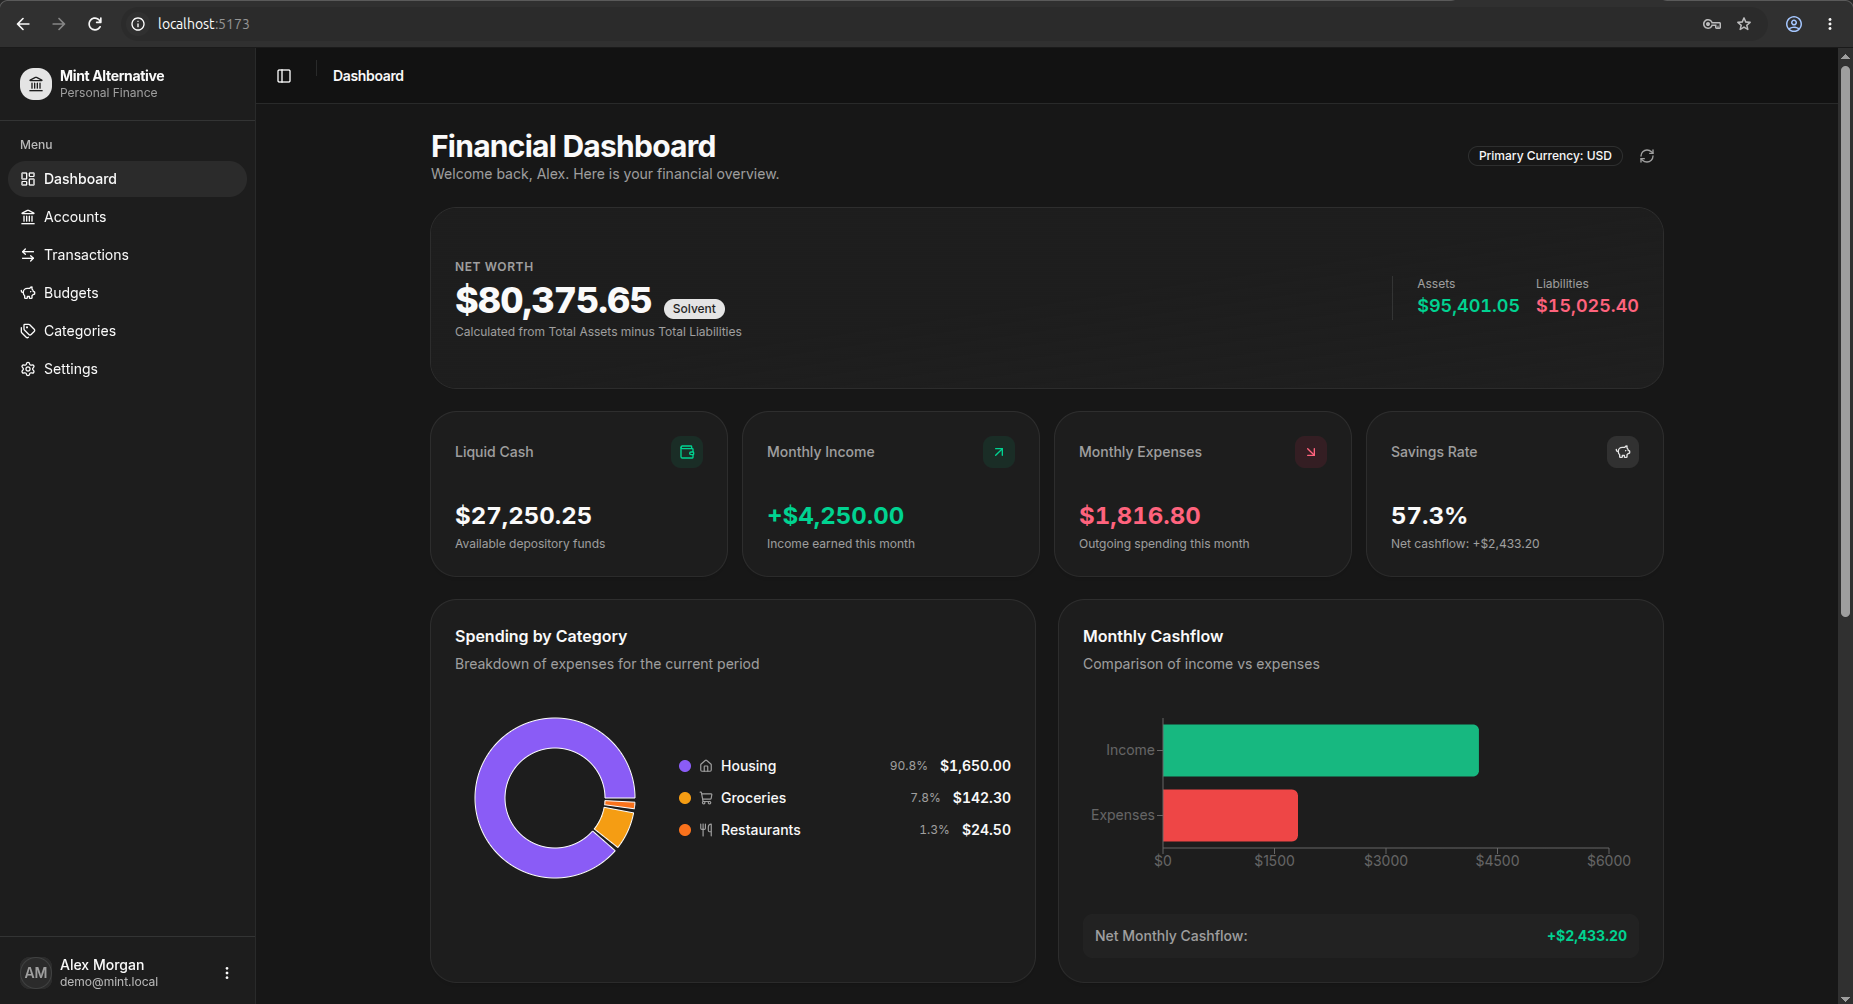
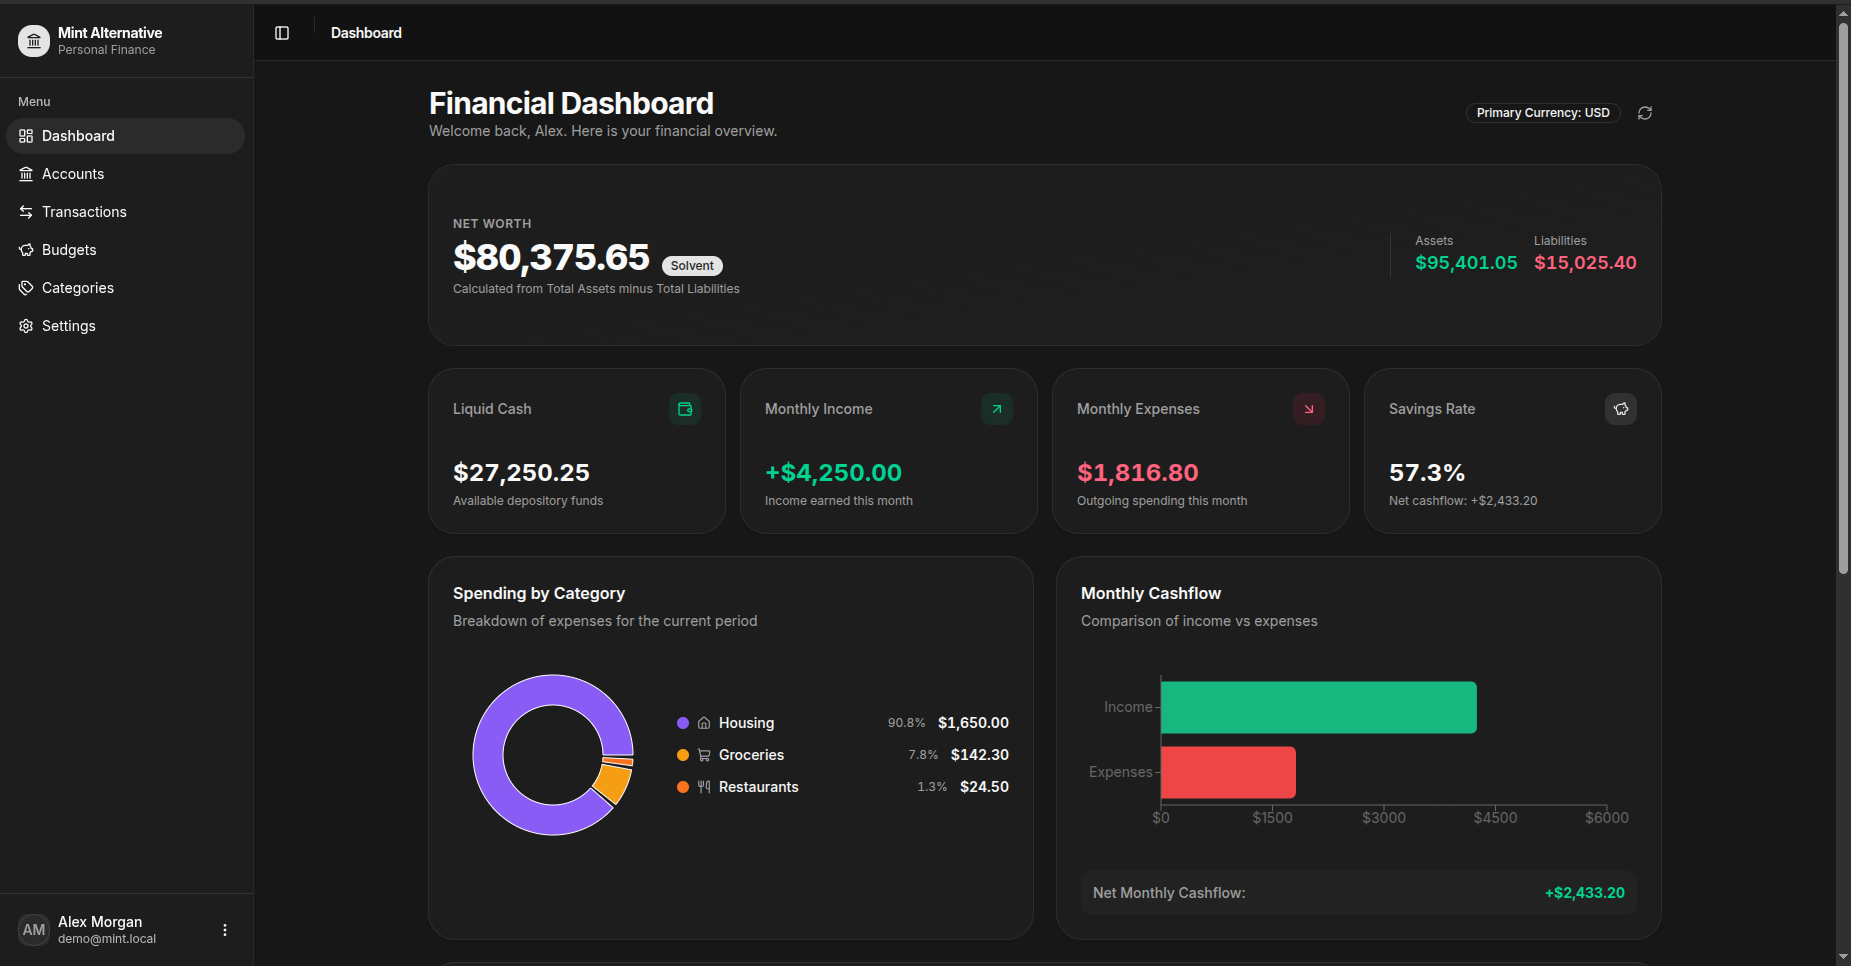
readme update w/ work done

diff --git a/README.md b/README.md
@@ -8,7 +8,7 @@ The application is designed to be responsive, mobile-friendly, and eventually in
 
 > **Project Status:** Early development. Features and integrations are being implemented incrementally.
 
-![Mint Alternative Live Financial Dashboard](docs/screenshots/dashboard.png)
+![Financial dashboard showing net worth, monthly cash flow, and spending by category](docs/screenshots/dashboard.png)
 
 ## Tech Stack
 
@@ -24,14 +24,13 @@ The application is designed to be responsive, mobile-friendly, and eventually in
 | React Router | Client-side routing |
 | vite-plugin-pwa | Planned PWA support |
 
-## Planned Features
+## Current and Planned Features
 
 ### Dashboard
 
-- Overview of connected financial accounts
 - Total assets, liabilities, and net worth
 - Monthly income and expenses
-- Spending trends and category breakdowns
+- Monthly spending breakdown by category
 - Recent transactions and financial activity
 
 ### Accounts
@@ -39,25 +38,34 @@ The application is designed to be responsive, mobile-friendly, and eventually in
 - Checking and savings accounts
 - Credit cards and loans
 - Investment accounts
-- Manual account management
-- Account balance history
+- Balances grouped by account type
+- Manual account creation, editing, archiving, and restoration
+- Account balance history (planned)
+
+![Financial accounts showing assets, liabilities, and balances grouped by account type](docs/screenshots/accounts.png)
 
 ### Transactions
 
 - Searchable and filterable transaction history
 - Transaction categorization
-- Custom categories and merchant rules
 - Manual transaction entry
-- Recurring transaction identification
+- Transaction editing and deletion
+- Merchant rules and recurring transaction identification (planned)
 
-### Budgets
+### Categories
+
+- Built-in and custom income, expense, and transfer categories
+- Custom category creation, editing, and deletion
+- Parent categories with subcategories
+
+### Budgets (planned)
 
 - Monthly and category-based budgets
 - Budget utilization and remaining balances
 - Spending progress indicators
 - Historical budget comparisons
 
-### Financial Insights
+### Financial Insights (planned)
 
 - Income and expense trends
 - Net worth tracking
@@ -194,13 +202,16 @@ Available API resources include:
 - [x] Income and expense charts
 - [x] Spending category visualization
 - [x] Recent transactions
-- [ ] Account balance summaries
 
 ### Phase 3 — Financial Management
 
-- [ ] Account management screens
-- [ ] Transaction list and filters
-- [ ] Transaction editing and categorization
+- [x] Account balance summaries on the Accounts page
+- [x] Account management screens
+- [x] Transaction list, search, and filters
+- [x] Transaction editing and categorization
+- [x] Manual transaction entry and deletion
+- [x] Custom category management
+- [ ] Account balance history
 - [ ] Monthly budget management
 - [ ] Financial insights
 
